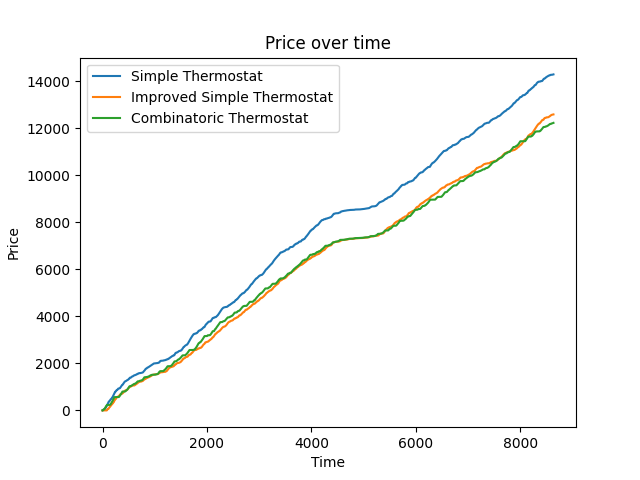
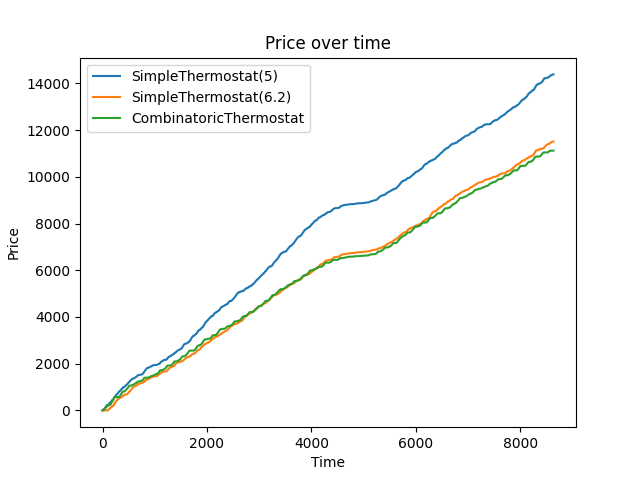
Update multi_price.png

diff --git a/GrundlæggendeProgrammering/workshops/kølerum/main.py b/GrundlæggendeProgrammering/workshops/kølerum/main.py
@@ -21,17 +21,13 @@ def create_room(thermostat: Thermostat, prices: pd.Series | None = None) -> Cool
 def compare_thermostats() -> None:
     prices = pd.read_csv("elpris.csv")["Pris"]
     thermostats = [
-        SimpleThermostat(),
-        HysteresisThermostat(),
-        LocalAverageThermostat(electric_prices=prices),
-        FutureMinAverageThermostat(electric_prices=prices),
+        SimpleThermostat(5),
+        SimpleThermostat(6.2),
         CombinatoricSmartThermostat(electric_prices=prices),
     ]
     names = [
-        "SimpleThermostat",
-        "HysteresisThermostat",
-        "LocalAverageThermostat",
-        "FutureMinAverageThermostat",
+        "SimpleThermostat(5)",
+        "SimpleThermostat(6.2)",
         "CombinatoricThermostat",
     ]
     results = []
@@ -43,7 +39,6 @@ def compare_thermostats() -> None:
     plotter = MultiPlotter(
         data=results,
         names=names,
-        prefix="all"
     )
     plotter.plot_price()
 
